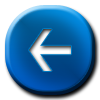
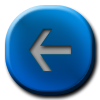
My art work of reset button and undo button

Changed region(s): [[0.27, 0.27, 0.72, 0.72]]

diff --git a/Classes/StageScene.cpp b/Classes/StageScene.cpp
@@ -81,13 +81,13 @@ bool StageScene::init() {
                                 origin.y + visibleSize.height - 10 - backItem->getContentSize().height/2));
 
 	//reset menu item
-	auto resetItem = MenuItemImage::create("reset.png", "reset.png",
+	auto resetItem = MenuItemImage::create("reset0.png", "reset1.png",
 											CC_CALLBACK_1(StageScene::menuResetCallback, this));
 	resetItem->setPosition(Vec2(origin.x + 10 + resetItem->getContentSize().width/2,
 							 origin.y + visibleSize.height - 10 - CELL_SIZE - resetItem->getContentSize().height/2));
 
 	//undo menu item
-	auto undoItem = MenuItemImage::create("undo.png", "undo.png",
+	auto undoItem = MenuItemImage::create("undo0.png", "undo1.png",
 											CC_CALLBACK_1(StageScene::menuUndoCallback, this));
 	undoItem->setPosition(Vec2(origin.x + 10 + undoItem->getContentSize().width/2,
 							 origin.y + visibleSize.height - 10 - 2*CELL_SIZE - undoItem->getContentSize().height/2));
